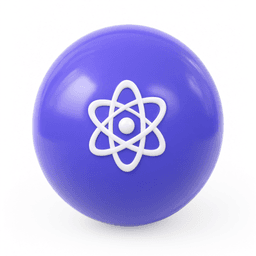
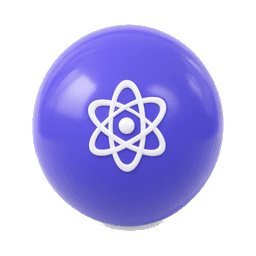
perbaiki: follow-up desain owner — bola mapel TRANSPARAN (background putih dibuang flood-fill), kata 'AI' hilang dari UI siswa (menu & tombol jadi 'Latihan Harian'), kartu streak 'N hari beruntun' DIANGKAT dari menu Try Out (milik Latihan Harian), teks tanggal kosong: 'Belum ada try out untuk kamu. 

Changed region(s): [[0.3438, 0.8125, 0.7188, 0.9375]]

diff --git a/src/pages/student/tryout/PapanJelajahPage.jsx b/src/pages/student/tryout/PapanJelajahPage.jsx
@@ -6,9 +6,11 @@
 //   - baris bendera "popular languages" DIGANTI KALENDER BULANAN:
 //     lingkaran tanggal yang bisa digeser; siswa MEMILIH TANGGAL, bukan
 //     membuka arsip — misi lama & hasilnya tetap hidup di tanggalnya;
+//   - kartu streak api/beruntun TIDAK ada di sini: itu milik menu
+//     Latihan Harian (keputusan owner 14 Okt 2026 sore).
 //   - daftar misi di BAWAH tanggal terpilih: satu kartu = satu test
 //     (subtes), ikon BOLA 3D per mapel (astronot dinilai "kurang pas");
-//   - tanggal kosong menawarkan LATIHAN HARIAN AI (/siswa/latihan-harian)
+//   - tanggal kosong menawarkan LATIHAN HARIAN (/siswa/latihan-harian)
 //     karena visi owner: latihan harian ala Duolingo untuk TKA→UTBK.
 // Tab "Papan Analitik" (pengganti leaderboard) TIDAK berubah perilaku.
 // Hidup di balik sakelar fitur 'papanJelajah' (default MATI).
@@ -18,11 +20,11 @@ import { useNavigate, Link } from 'react-router-dom';
 import { db } from '../../../firebase';
 import { collection, documentId, getDocs, query, where } from 'firebase/firestore';
 import {
-  Flame, CalendarDays, Sparkles, Target, Timer, Rocket, Gem,
+  CalendarDays, Sparkles, Target, Timer, Rocket, Gem,
   ChevronLeft, ChevronRight, Lock, Play, CheckCircle2, Hourglass,
 } from 'lucide-react';
 import {
-  hitungAnalitik, potongUntukQuery, bolaMascotUntukMapel, kunciTanggal, hitungStreak,
+  hitungAnalitik, potongUntukQuery, bolaMascotUntukMapel, kunciTanggal,
 } from '../../../utils/papanJelajah.js';
 import { bangunDokumenTryOut } from '../../../utils/dokumenTryOut.js';
 import { hitungTotalSkor } from '../../../utils/skorSoalTryOut.js';
@@ -232,11 +234,6 @@ export default function PapanJelajahPage({ studentId = '' }) {
     return map;
   }, [paket, sesiPerPaket, kini]);
 
-  const streak = useMemo(() => hitungStreak(
-    sesi.filter((s) => s.status === 'selesai').map((s) => ms(s.waktuSelesai)).filter(Boolean),
-    kini,
-  ), [sesi, kini]);
-
   const xp = useMemo(() => sesi.reduce((a, s) => a + (Number(s.xpFinal) || Number(s.xpMentah) || 0), 0), [sesi]);
   const level = 1 + Math.floor(xp / 100);
 
@@ -280,12 +277,6 @@ export default function PapanJelajahPage({ studentId = '' }) {
   if (muat) return <div style={{ padding: 30, color: '#9aa3d6' }}>🛰 Menyiapkan papan jelajah…</div>;
 
   const misiTanggalIni = dokumenPerTanggal.get(tanggal) || [];
-  const tujuhHari = Array.from({ length: 7 }, (_, i) => {
-    const t = kini - (6 - i) * 86400000;
-    const key = kunciTanggal(t);
-    const aktif = sesi.some((s) => s.status === 'selesai' && kunciTanggal(ms(s.waktuSelesai)) === key);
-    return { key, tanggal: new Date(t).getDate(), aktif, hariIni: key === kunciTanggal(kini) };
-  });
   const inisial = String(nama || 'S').trim().split(/\s+/).map((x) => x[0]).slice(0, 2).join('').toUpperCase();
 
   return (
@@ -313,44 +304,6 @@ export default function PapanJelajahPage({ studentId = '' }) {
 
       {tab === 'misi' ? (
         <div style={{ display: 'flex', flexDirection: 'column', gap: 14, marginTop: 14 }}>
-          {/* ---------- kartu streak ala Duolingo ---------- */}
-          <div style={{ background: 'linear-gradient(135deg,#f97316,#ea580c)', borderRadius: 20, padding: 16, boxShadow: '0 14px 40px rgba(249,115,22,.35)' }}>
-            <div style={{ display: 'flex', justifyContent: 'space-between', alignItems: 'center', gap: 8 }}>
-              <div style={{ fontWeight: 900, fontSize: 17 }}>
-                <Flame size={19} style={{ verticalAlign: -4 }} /> {streak.jumlah} hari beruntun!
-              </div>
-              <span style={{ background: 'rgba(255,255,255,.2)', borderRadius: 999, padding: '3px 10px', fontSize: 11, fontWeight: 800 }}>
-                {streak.amanHariIni ? '🔥 aman hari ini' : '⚠ belum aman hari ini'}
-              </span>
-            </div>
-            <div style={{ display: 'flex', gap: 8, marginTop: 12 }}>
-              {tujuhHari.map((h) => (
-                <button
-                  key={h.key}
-                  type="button"
-                  onClick={() => { setTanggal(h.key); setBulan({ y: new Date(h.key).getFullYear(), m: new Date(h.key).getMonth() }); }}
-                  title={h.key}
-                  style={{
-                    flex: 1, borderRadius: 14, padding: '9px 0', cursor: 'pointer',
-                    background: h.aktif ? 'rgba(255,255,255,.28)' : 'rgba(255,255,255,.12)',
-                    border: h.hariIni ? '2px solid #fff' : '2px solid transparent',
-                    color: '#fff', textAlign: 'center',
-                  }}
-                >
-                  <div style={{ fontSize: 17 }}>{h.aktif ? '🔥' : '·'}</div>
-                  <div style={{ fontSize: 10, fontWeight: 800, marginTop: 2 }}>{h.tanggal}</div>
-                </button>
-              ))}
-            </div>
-            <button
-              type="button"
-              onClick={() => { setTanggal(kunciTanggal(kini)); setBulan({ y: new Date(kini).getFullYear(), m: new Date(kini).getMonth() }); }}
-              style={{ marginTop: 12, width: '100%', padding: '10px 0', borderRadius: 12, border: 'none', background: '#fff', color: '#ea580c', fontWeight: 900, fontSize: 13, cursor: 'pointer' }}
-            >
-              {streak.amanHariIni ? 'Lihat misi hari ini' : 'Kerjakan misi hari ini biar api tidak padam!'}
-            </button>
-          </div>
-
           {/* ---------- kalender bulanian: geser tanggal ---------- */}
           <div style={st.kartu}>
             <div style={{ display: 'flex', justifyContent: 'space-between', alignItems: 'center', marginBottom: 10 }}>
@@ -397,16 +350,16 @@ export default function PapanJelajahPage({ studentId = '' }) {
             </div>
             {misiTanggalIni.length === 0 ? (
               <div style={st.kartu}>
-                <div style={{ fontWeight: 700, fontSize: 13.5 }}>🌙 Tidak ada misi try out pada tanggal ini.</div>
+                <div style={{ fontWeight: 700, fontSize: 13.5 }}>🌙 Belum ada try out untuk kamu.</div>
                 <p style={st.deskripsi}>
-                  Try out bersama biasanya dibuka setiap Sabtu. Untuk latihan harian ala Duolingo
-                  (soal dibuat AI, melatih TKA sampai UTBK), masuk ke Latihan Harian:
+                  Yuk kerjakan misi harianmu! Latihan singkat setiap hari
+                  melatih kemampuanmu dari TKA sampai UTBK.
                 </p>
                 <Link
                   to="/siswa/latihan-harian"
                   style={{ display: 'inline-flex', alignItems: 'center', gap: 7, marginTop: 10, padding: '10px 16px', borderRadius: 12, background: 'linear-gradient(90deg,#f97316,#7c3aed)', color: '#fff', fontWeight: 900, fontSize: 13, textDecoration: 'none' }}
                 >
-                  <Rocket size={14} /> Latihan Harian AI
+                  <Rocket size={14} /> Latihan Harian
                 </Link>
               </div>
             ) : misiTanggalIni.map((d) => (

diff --git a/src/components/SidebarSiswa.jsx b/src/components/SidebarSiswa.jsx
@@ -72,7 +72,7 @@ const SidebarSiswa = ({ activeMenu, setActiveMenu, isOpen, setIsOpen }) => {
         // bisa masuk lewat kartu dashboard. Visi super app: latihan harian
         // ala Duolingo (AI) adalah pintu latihan TKA→UTBK sehari-hari.
         { id: 'tryout', label: 'Try Out & Misi', icon: <Rocket size={18} />, path: '/siswa/tryout', color: '#f97316' },
-        { id: 'latihan-harian', label: 'Latihan Harian AI', icon: <Flame size={18} />, path: '/siswa/latihan-harian', color: '#dc2626', badge: 'AI' },
+        { id: 'latihan-harian', label: 'Latihan Harian', icon: <Flame size={18} />, path: '/siswa/latihan-harian', color: '#dc2626' },
         { id: 'belajar', label: 'Materi Belajar', icon: <Library size={18} />, path: '/siswa/belajar', color: '#1E9BF0', badge: 'BARU' },
         { id: 'materi', label: 'E-Learning', icon: <BookOpen size={18} />, path: '/siswa/materi', color: '#10b981' },
         { id: 'jadwal', label: 'Jadwal', icon: <Calendar size={18} />, path: '/siswa/jadwal', color: '#ec4899' },
